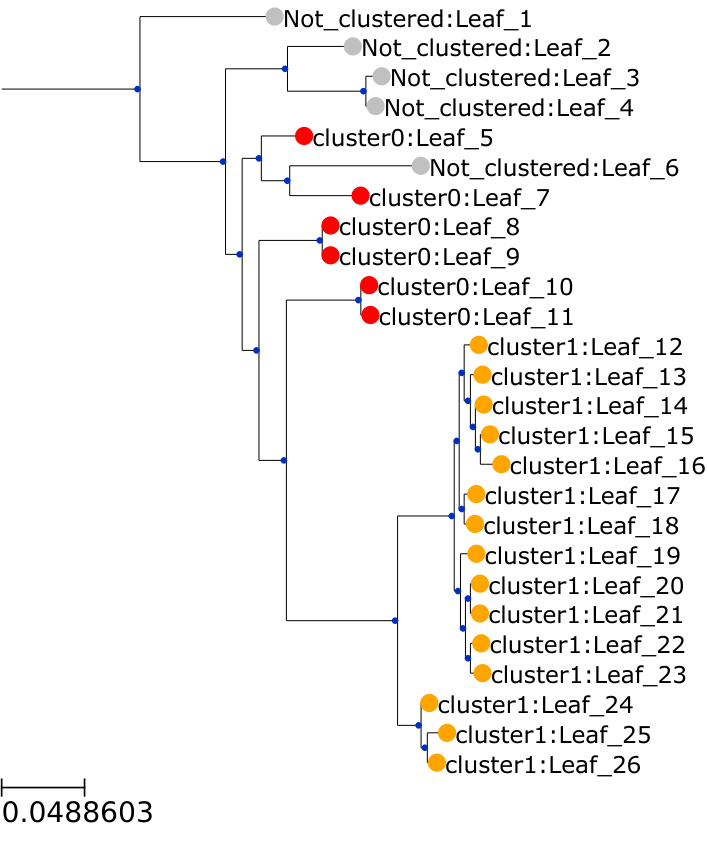
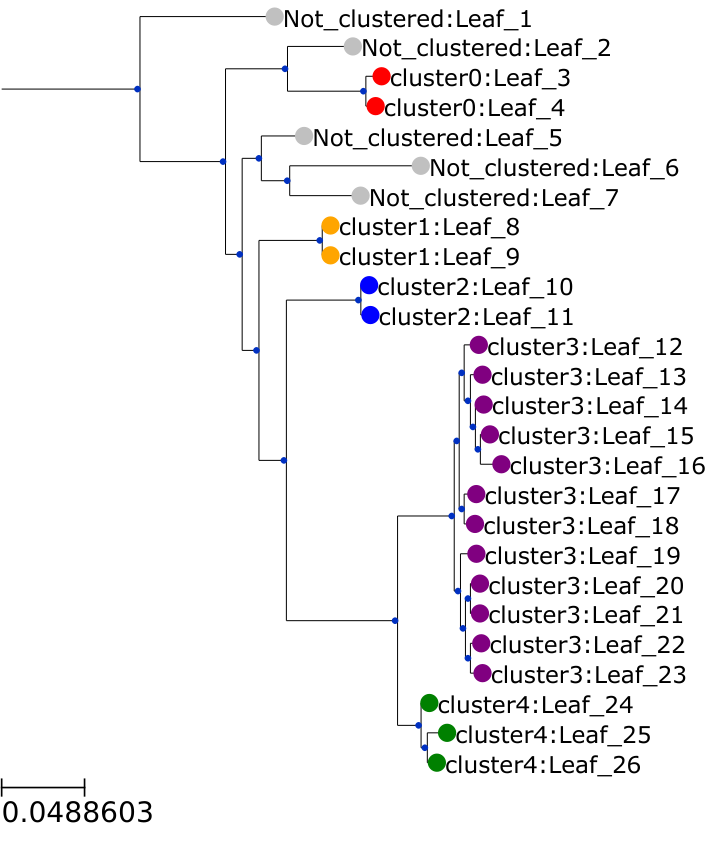
20230125-191046

diff --git a/README.md b/README.md
@@ -28,8 +28,8 @@ python main.py \
 python main.py \
 -i test.nwk \
 -o test.txt \
--t 0.1 \
--m 5
+-t 0.01 \
+-m 2
 
 Leaves processed: 26
 21 leaves were clustered into 2 clusters.
